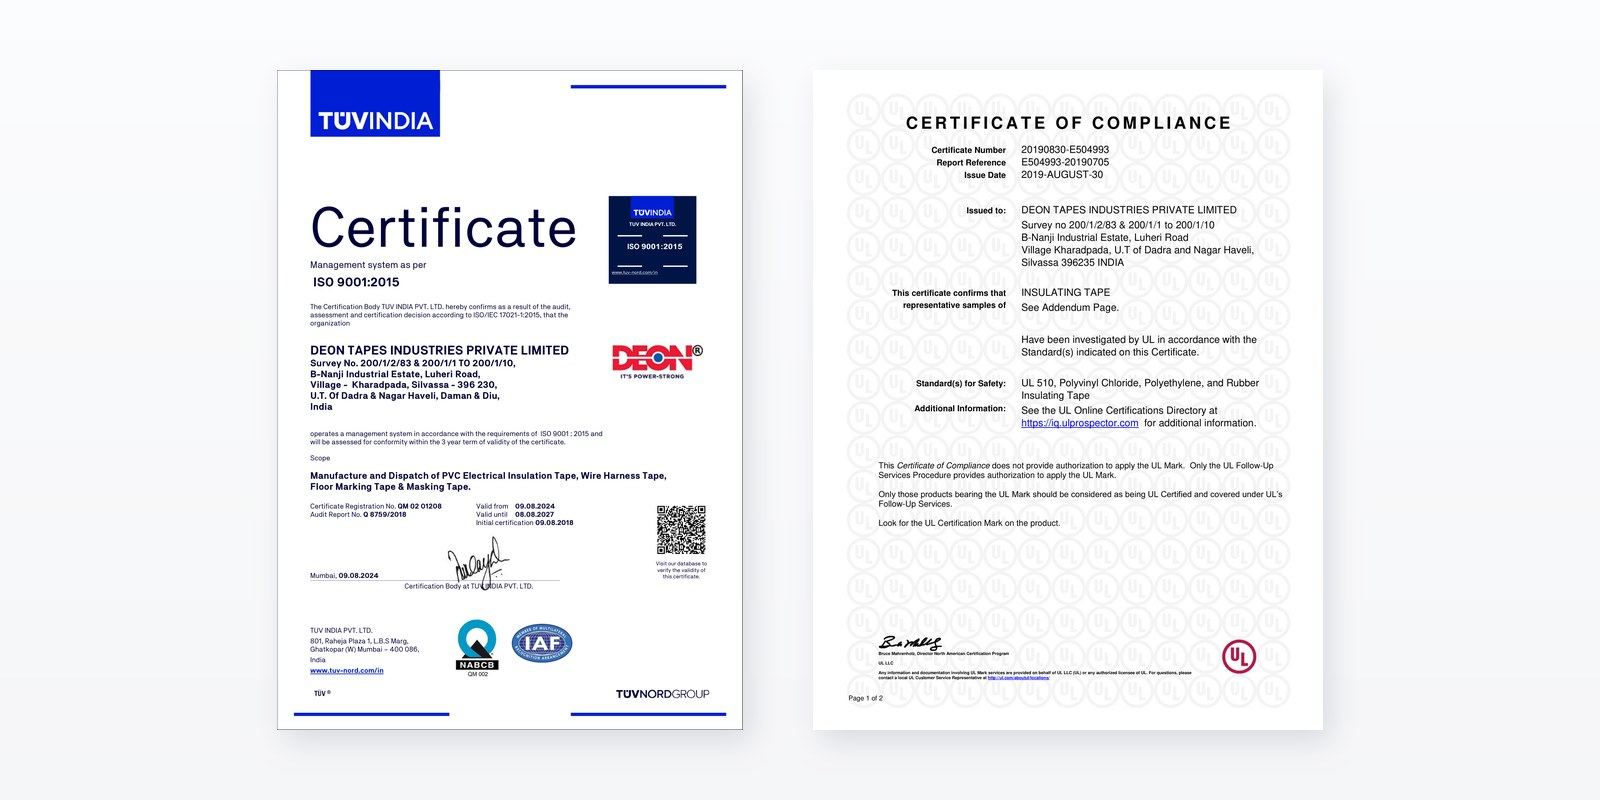
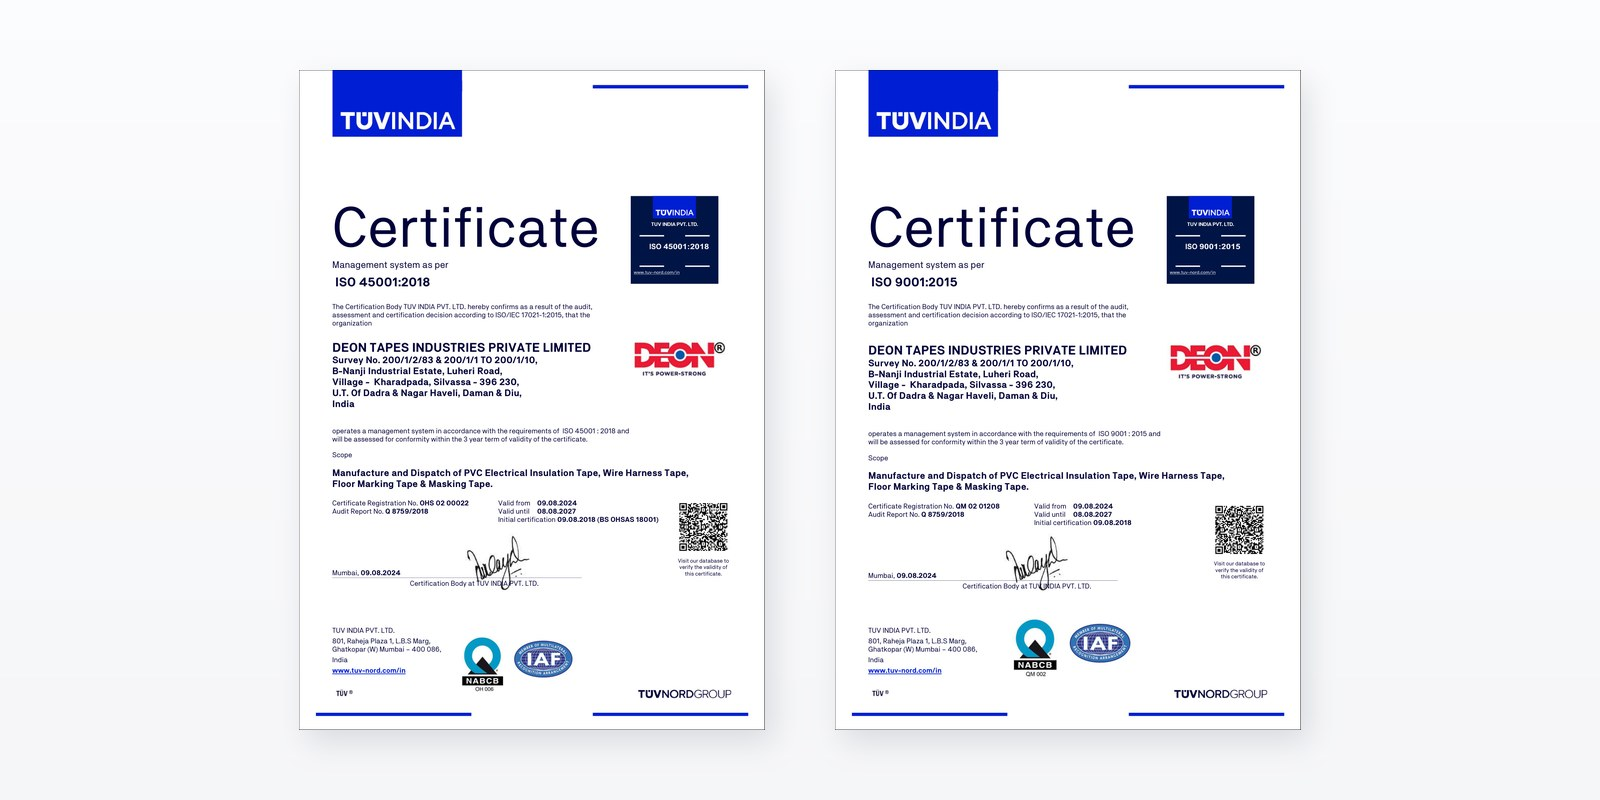
Journey 2018: show 2018-dated ISO certificates
Replaces the UL cert (dated 2019) with ISO 45001:2018 alongside
ISO 9001. Both were initially certified 09.08.2018, so the slide now
reads 2018. Caption updated to ISO 9001 & 45001 accordingly.

diff --git a/deon-site/index.html b/deon-site/index.html
@@ -139,7 +139,7 @@
     var DATA=[
       {t:"Plant launched in Silvassa",d:"First plant launched in Silvassa (20,000 sq. mtr). Capacity: ~1.6 Million sq. mtrs/month. Products: Electrical insulation, wire harness, floor marking tapes.",img:"2016.jpg"},
       {t:"BIS certification secured",d:"Secured official BIS certification for core tape lines, clearing domestic tender filters and enabling participation in government and institutional procurement.",img:"2017.jpg"},
-      {t:"ISO & UL certified",d:"Achieved international ISO and UL certifications, establishing compliance credibility for MNC procurement and global export markets.",img:"2018.jpg"},
+      {t:"ISO 9001 & 45001 certified",d:"Achieved ISO 9001:2015 quality and ISO 45001:2018 occupational health & safety certifications, establishing compliance credibility for MNC procurement and global export markets.",img:"2018.jpg"},
       {t:"Paper core plant commissioned",d:"Backward integration: commissioned an in-house paper core plant, enabling precision winding control and eliminating third-party dependency for core supply.",img:"2019.jpg"},
       {t:"Masking tape launched",d:"Expanded product portfolio with masking tape (painter's tape), entering the commercial painting and surface protection market.",img:"2020.jpg"},
       {t:"Packaging corrugation plant added",d:"Backward integration: added an in-house packaging corrugation plant, enabling self-sufficient packaging and zero delivery delays.",img:"2021.jpg"},
